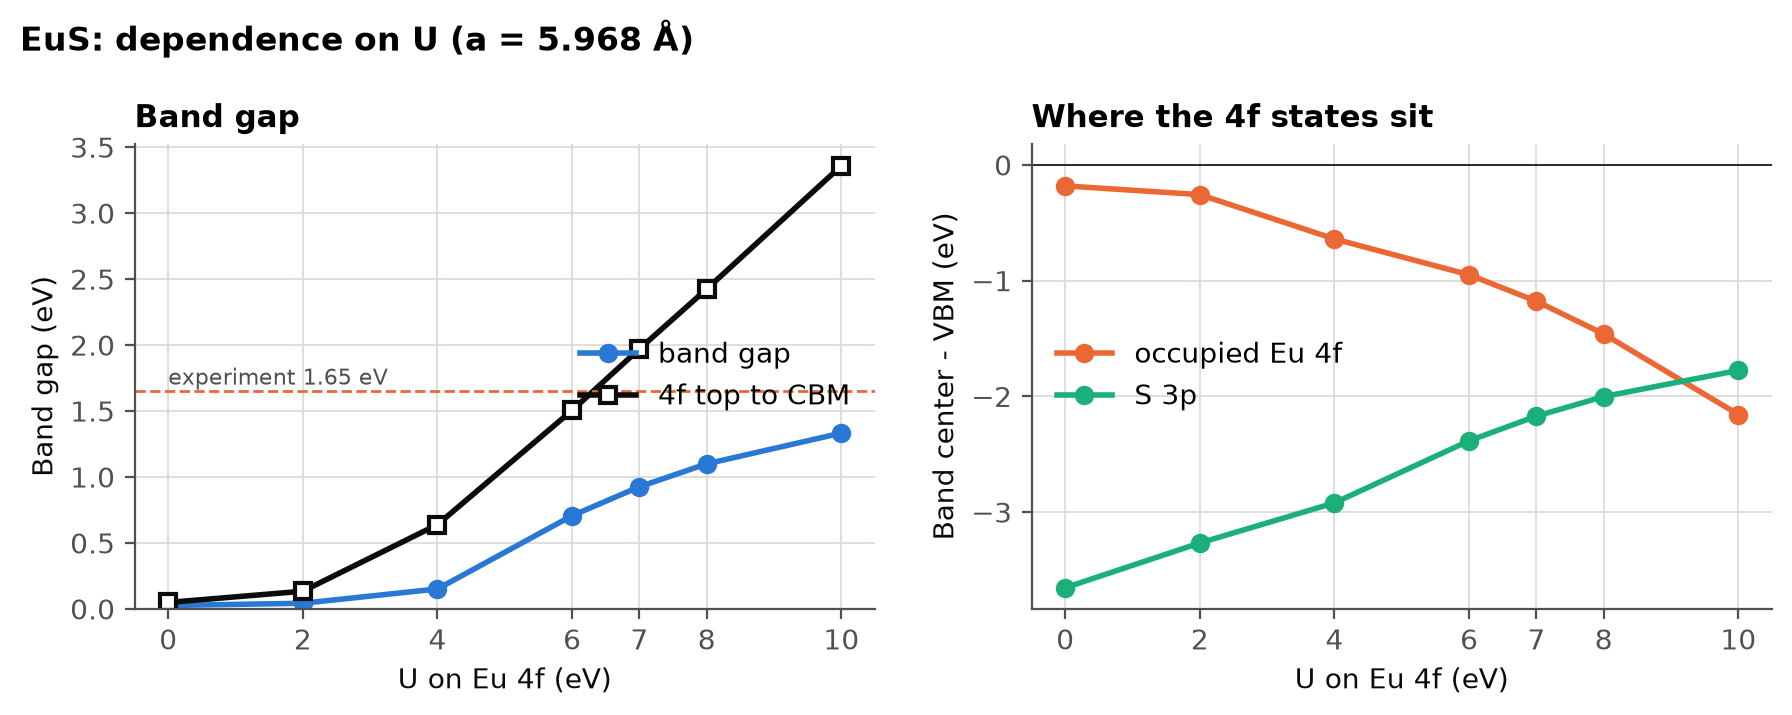
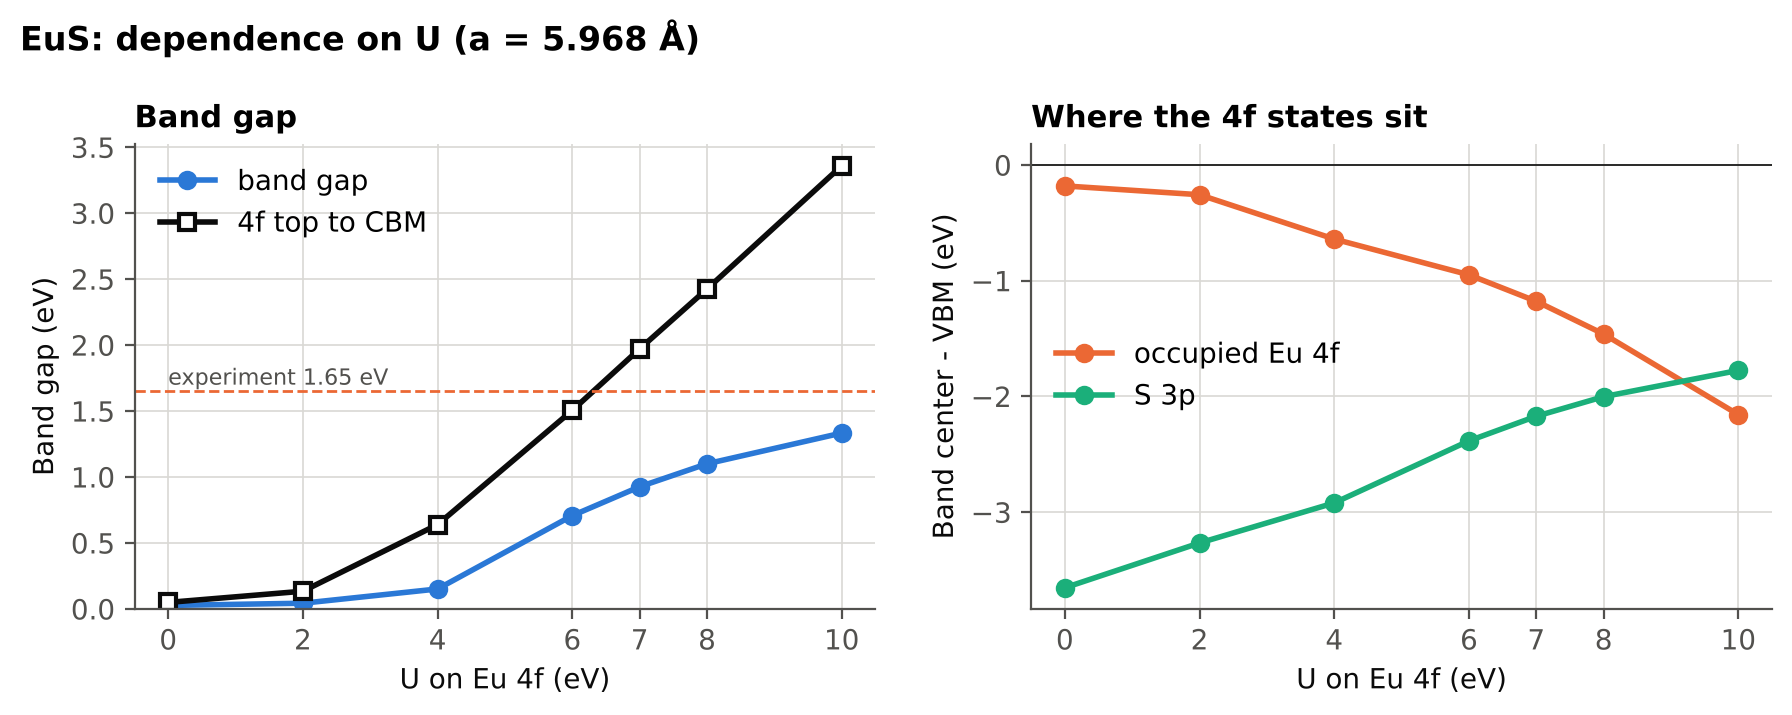
Move the U scan legend off the data and explain the 4f gap
The legend covered the 4f top to CBM line near U = 6 to 7 eV. The README
now lists that gap and notes that it reaches 1.65 eV near U = 6.3 eV only
with the 4f below the valence band top.

diff --git a/06_eus_u_scan.py b/06_eus_u_scan.py
@@ -84,7 +84,7 @@ ax.set_xlabel("U on Eu 4f (eV)")
 ax.set_ylabel("Band gap (eV)")
 ax.set_ylim(bottom=0)
 ax.set_title("Band gap", loc="left")
-ax.legend(loc="center right")
+ax.legend(loc="upper left")
 
 ax = axes[1]
 ax.plot(U_VALUES, f_center, "o-", color=ORANGE, label="occupied Eu 4f")

diff --git a/README.md b/README.md
@@ -87,10 +87,13 @@ U is an input to PBE+U, not something it computes, so step 6 repeats the calcula
 |---|---|---|---|---|---|---|---|
 | Gap (eV) | 0.03 | 0.04 | 0.15 | 0.71 | 0.93 | 1.10 | 1.33 |
 | Occupied 4f center - VBM (eV) | -0.18 | -0.26 | -0.64 | -0.95 | -1.18 | -1.46 | -2.16 |
+| Occupied 4f top → CBM (eV) | 0.05 | 0.13 | 0.64 | 1.51 | 1.97 | 2.43 | 3.36 |
 
 The gap barely moves until U reaches about 4 eV, then grows steadily, but it stays below experiment over the whole range and reaches only 1.33 eV at U = 10 eV. (At U = 7 eV the gap here is 0.93 eV rather than the 1.01 eV of step 5, because step 5 uses the slightly larger PBE+U lattice constant.)
 
 Comparing these numbers with 1.65 eV needs care. The measured gap is the 4f → 5d edge: in EuS the occupied 4f level sits above the S 3p band and forms the top of the valence band. In PBE+U that ordering only holds at small U. As U grows the occupied 4f sinks below the valence band top, which then becomes S 3p (the step 5 PDOS shows this at U = 7 eV), so the gap in the table becomes an S 3p → Eu 5d gap, a different transition from the one measured. By U = 10 eV the 4f band center is even below the S 3p center.
+
+The last row tracks the measured transition directly, from the top of the occupied 4f band to the conduction band. It passes 1.65 eV near U = 6.3 eV, but at that U the 4f top already sits about 0.9 eV below the valence band top, so the number matches while the band ordering is wrong.
 
 So the failure is not just that the gap is too small. No single U gets the gap and the 4f position right together: a small U keeps the 4f at the top of the valence band but leaves almost no gap, and a large U opens a gap only by burying the 4f below the S 3p band. Getting both needs a method that also corrects the Eu 5d conduction band, such as a hybrid functional or GW.
 
